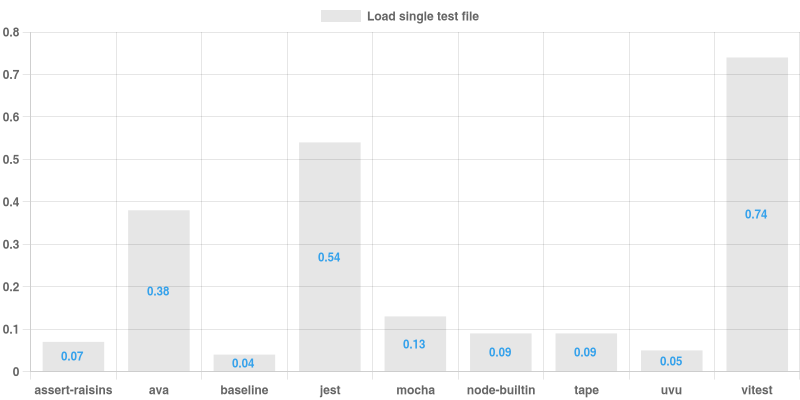
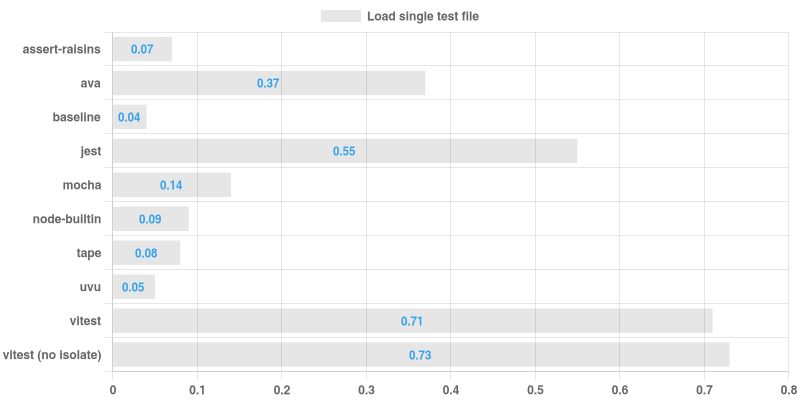
Add default vitest

diff --git a/definitions.js b/definitions.js
@@ -297,13 +297,28 @@ const vitest = {
   scenarios: {
     allTestsFilesImportOnly: {
       cmd: './node_modules/.bin/vitest build/vitest/importOnly',
-      notes: 'Faster concurrency option (non-default)'
     },
     singleTestFileImportOnly: {
       cmd: './node_modules/.bin/vitest build/vitest/importOnly/requestTest.js'
     },
     allTestsFilesWithLoad: {
       cmd: './node_modules/.bin/vitest build/vitest/withLoad',
+    }
+  }
+}
+
+const vitestNoIsolation = {
+  testTemplates: vitest.testTemplates,
+  scenarios: {
+    allTestsFilesImportOnly: {
+      cmd: './node_modules/.bin/vitest --no-isolate build/vitest/importOnly',
+      notes: 'Faster concurrency option (non-default)'
+    },
+    singleTestFileImportOnly: {
+      cmd: './node_modules/.bin/vitest --no-isolate build/vitest/importOnly/requestTest.js'
+    },
+    allTestsFilesWithLoad: {
+      cmd: './node_modules/.bin/vitest --no-isolate build/vitest/withLoad',
       notes: 'Faster concurrency option (non-default)'
     }
   }
@@ -329,6 +344,7 @@ export const definitions = {
   'node-builtin': node,
   mocha,
   vitest,
+  'vitest (no isolate)': vitestNoIsolation,
   jest,
   tape,
   ava,

diff --git a/generateCharts.js b/generateCharts.js
@@ -18,6 +18,7 @@ async function generateChart(data, fileName, label) {
     type: 'bar',
     plugins: [ ChartDataLabels ],
     options: {
+      indexAxis: 'y',
       plugins: {
         datalabels: {
           color: '#36A2EB',

diff --git a/vitest.config.js b/vitest.config.js
@@ -2,7 +2,6 @@ import { defineConfig } from 'vitest/config'
 
 export default defineConfig({
   test: {
-    isolate: false,
     include: ['./build/vitest/**/*.js'],
     watch: false,
   },

diff --git a/readme.md b/readme.md
@@ -45,7 +45,6 @@ Scenarios 1 and 2 contain a "baseline" column, which is just a bare node running
 #### Notes
 
 - Neither Tape nor Uvu support concurrent testing. You can see how they perform better than others in the first two scenarios but fall behind hopelessly in the third one.
-- vitest is using a faster (non-default) concurrency option. It's much slower with the default one.
 
 ## Usage
 
